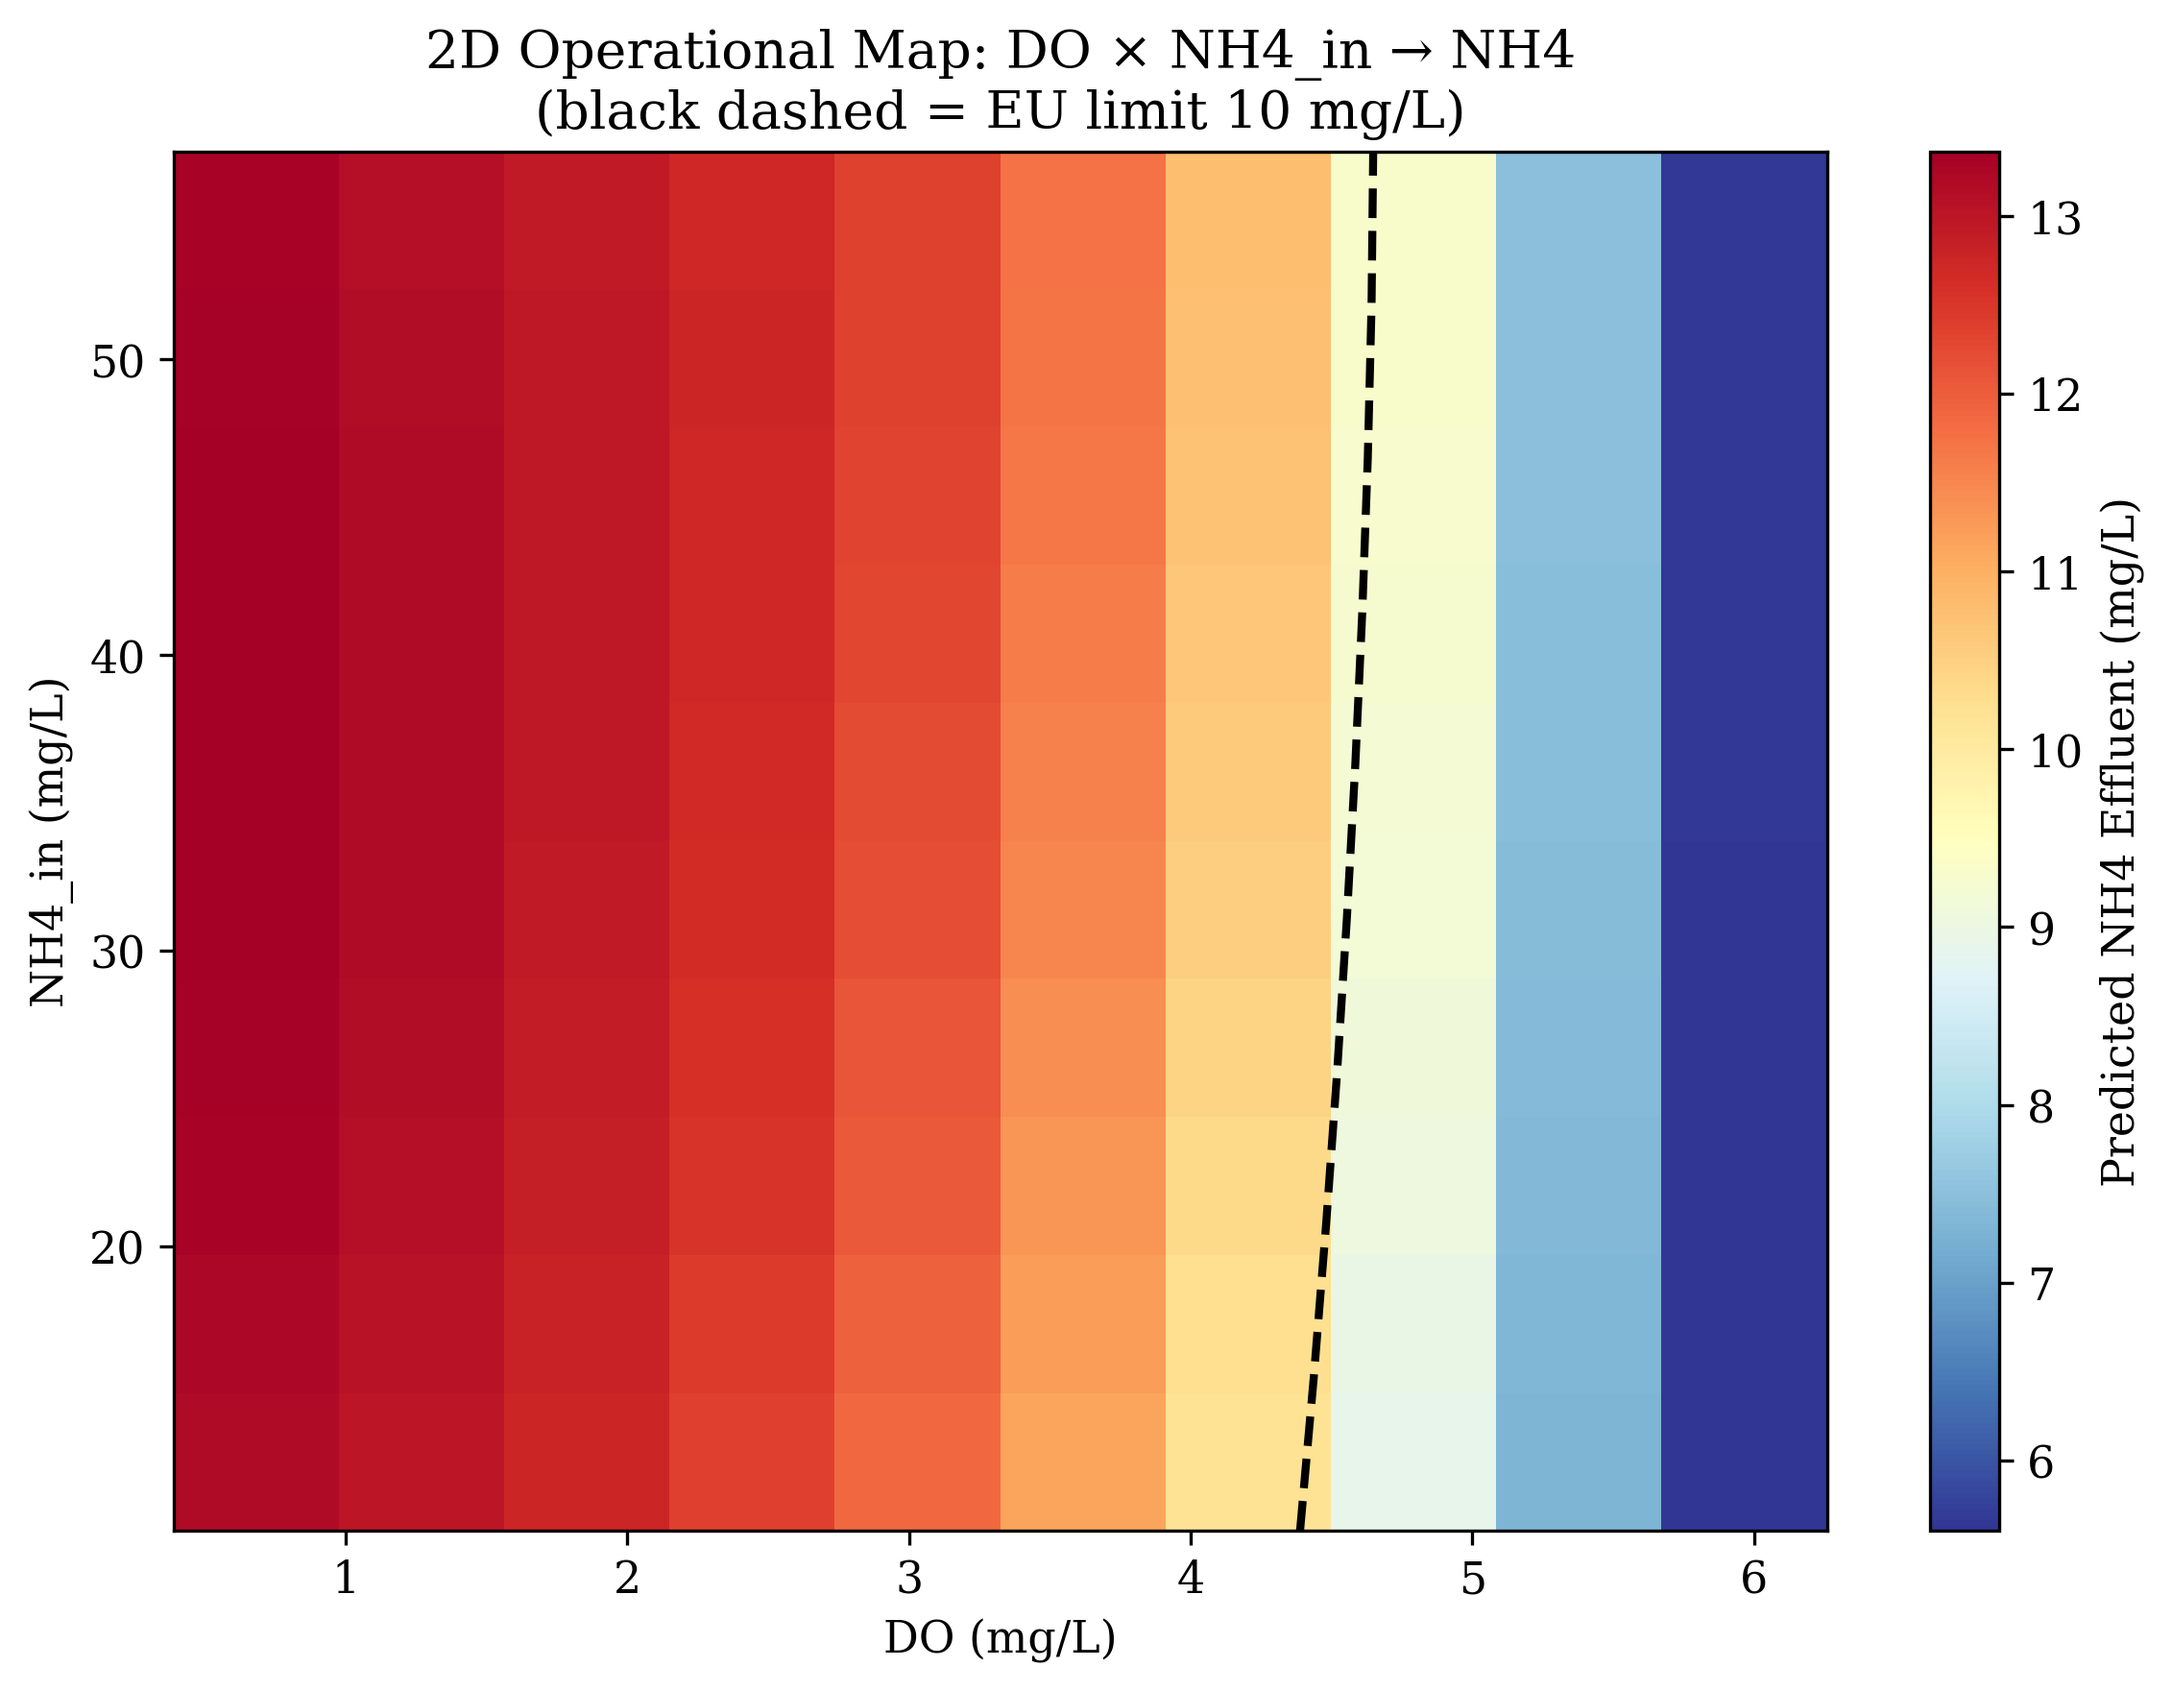
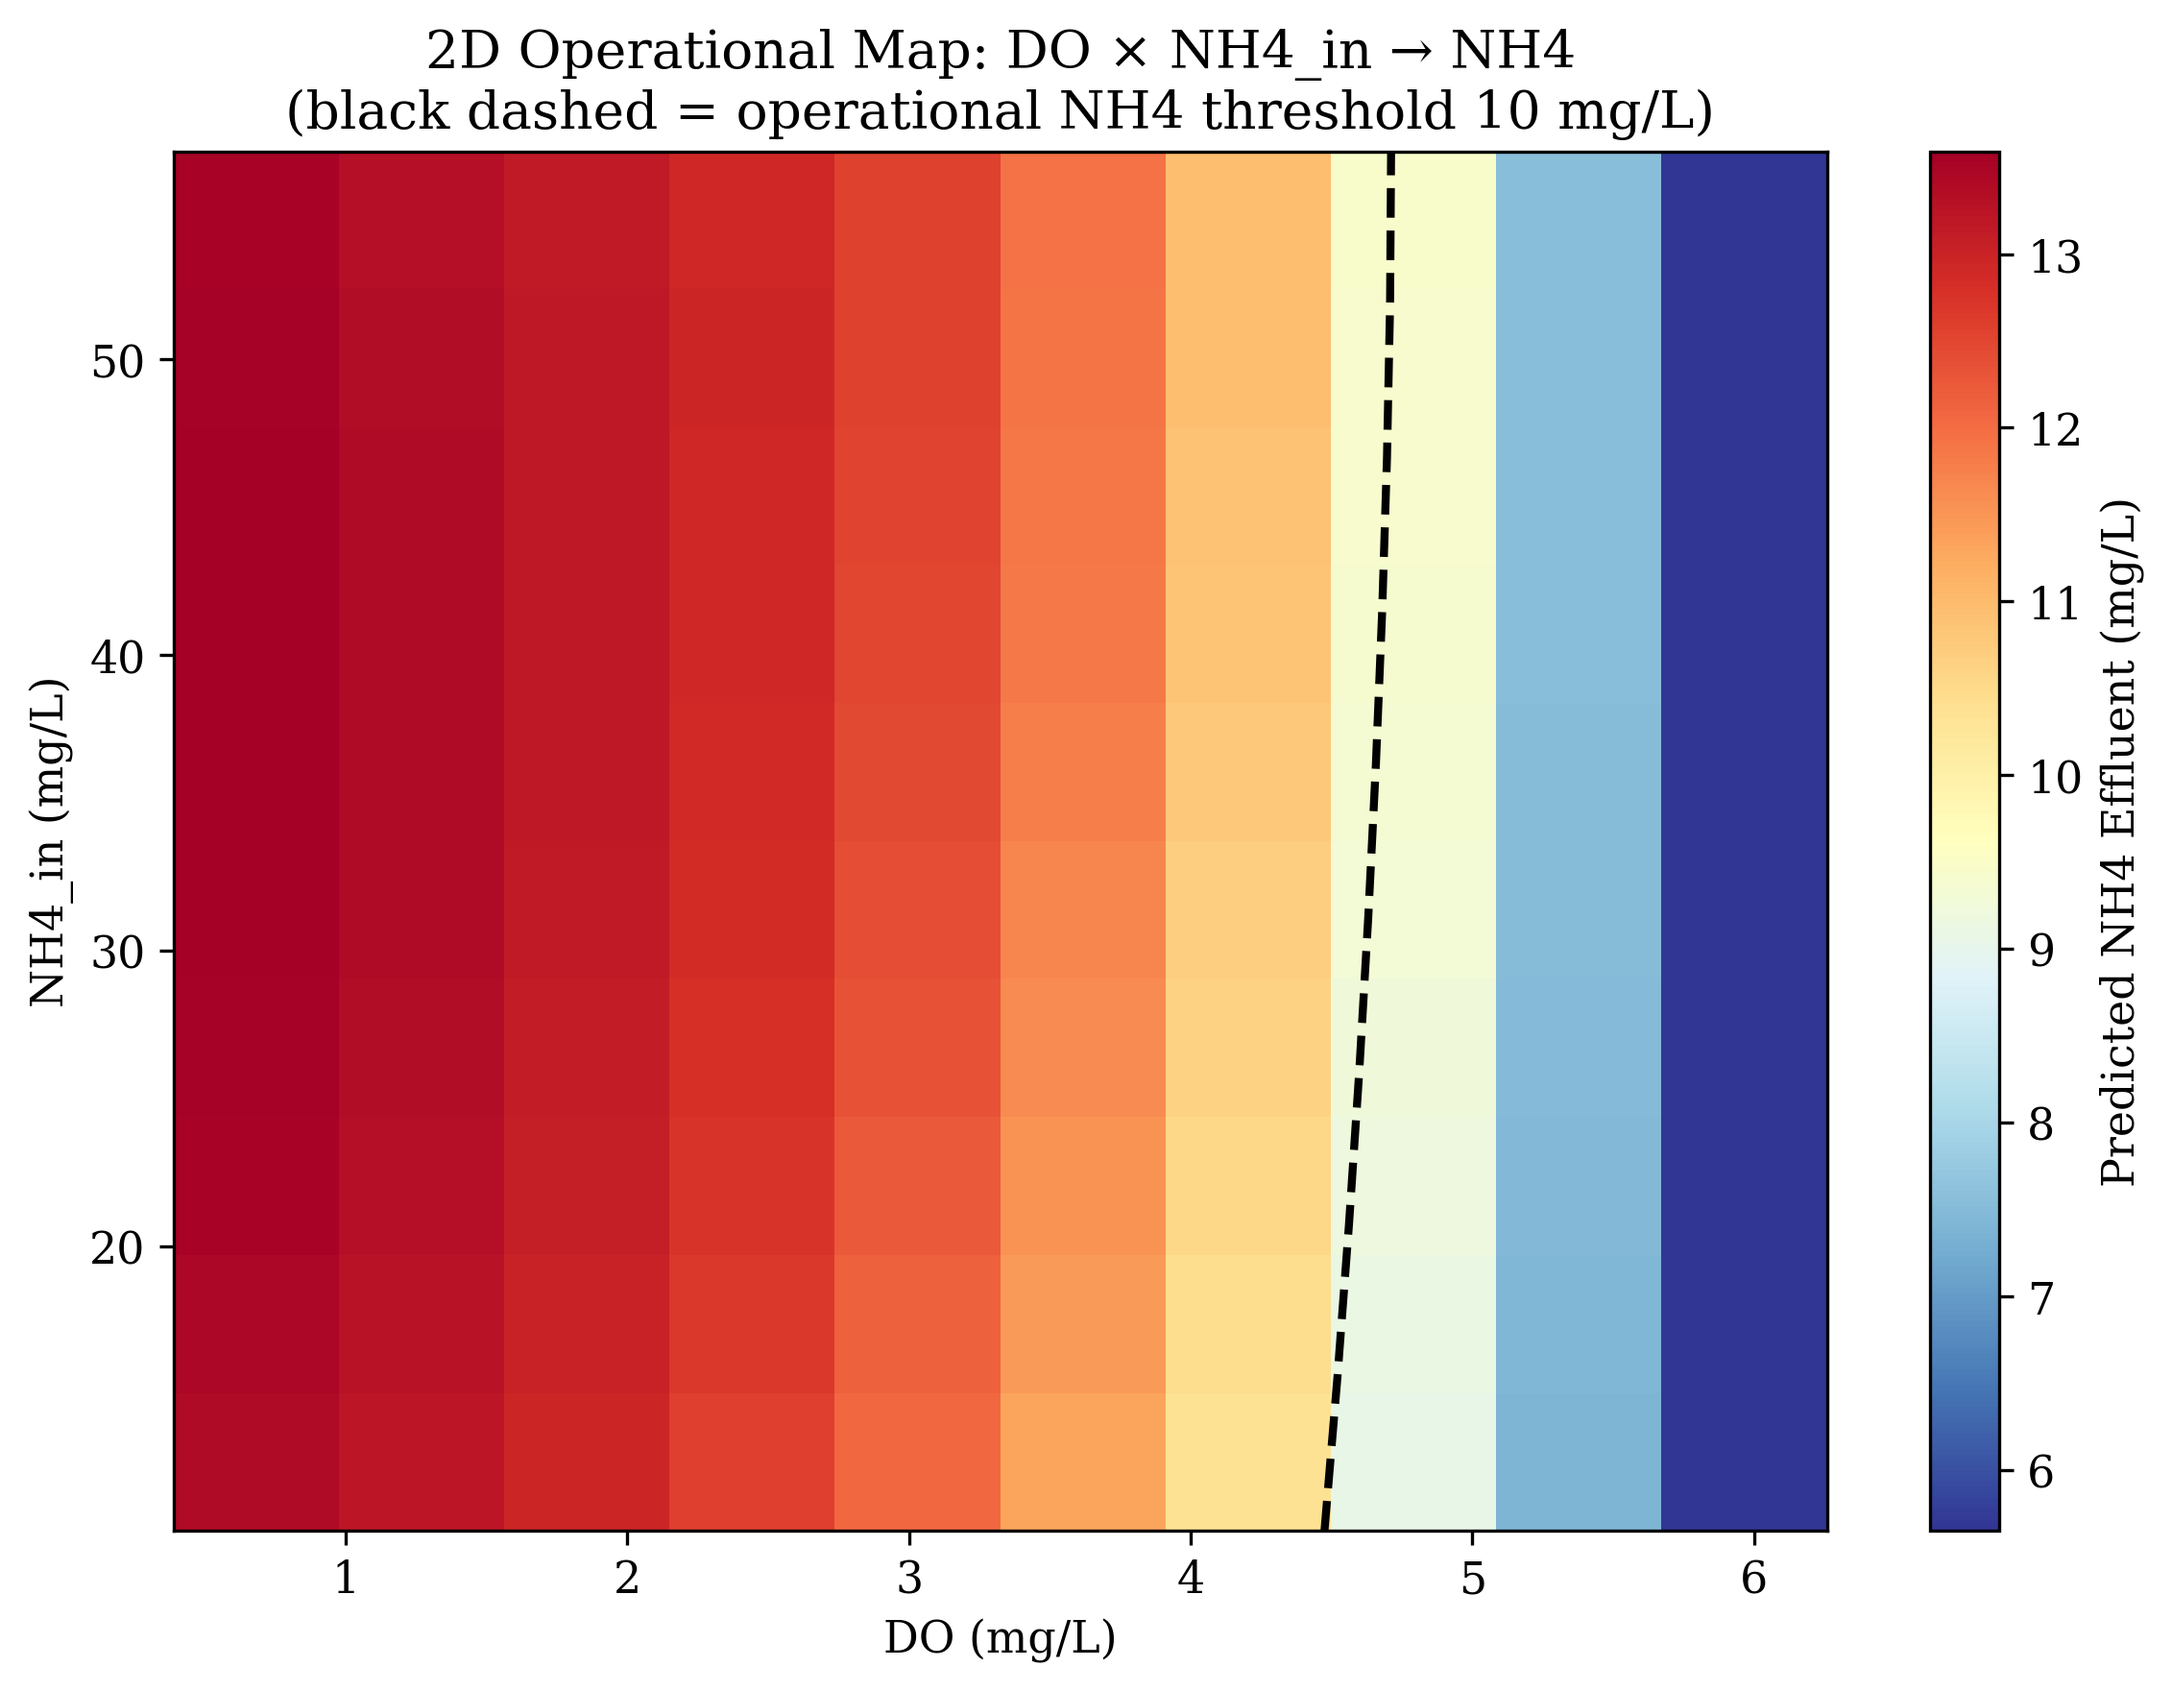
fix: regenerate domain-of-utility figure and correct interpretability labels
- generate_domain_of_utility_fig.py: drop a raw LaTeX cross-reference from
  the figure title and soften an over-strong "consistently lower" claim;
  regenerate fig_domain_of_utility from the current low-data and noise CSVs
  so the panel-C ratios match the result tables.
- shap_analysis.py: relabel the 10 mg/L line as an operational NH4 threshold
  rather than an EU limit (a nitrification performance threshold, not the EU
  total-N directive limit); regenerate the 2D ALE operational map.

diff --git a/shap_analysis.py b/shap_analysis.py
@@ -118,7 +118,7 @@ def run_pdp(model, test_loader, scaler):
     ax.fill_between(do_real, means - stds, means + stds, alpha=0.25, color='#E63946', label='±1 SD')
     ax.axvline(0.5, color='gray',      ls='--', lw=1.0, label='DO=0.5 (Nitrification Threshold)')
     ax.axvline(2.0, color='steelblue', ls='--', lw=1.0, label='DO=2.0 (Typical Setpoint)')
-    ax.axhline(10,  color='orange',    ls=':',  lw=1.2, label='EU Limit (10 mg/L)')
+    ax.axhline(10,  color='orange',    ls=':',  lw=1.2, label='Operational NH4 threshold (10 mg/L)')
     ax.set_xlabel('Dissolved Oxygen — DO (mg/L)')
     ax.set_ylabel('Predicted NH4 Effluent (mg-N/L)')
     ax.set_title('Partial Dependence Plot: DO → NH4 Effluent')
@@ -237,7 +237,7 @@ def run_ale_2d(model, test_loader, scaler, feat_idx_a=3, feat_idx_b=1,
     cbar.set_label(f'Predicted {output_name} Effluent (mg/L)')
     ax.set_xlabel(f'{feat_name_a} (mg/L)')
     ax.set_ylabel(f'{feat_name_b} (mg/L)')
-    ax.set_title(f'2D Operational Map: {feat_name_a} × {feat_name_b} → {output_name}\n(black dashed = EU limit 10 mg/L)')
+    ax.set_title(f'2D Operational Map: {feat_name_a} × {feat_name_b} → {output_name}\n(black dashed = operational NH4 threshold 10 mg/L)')
     plt.tight_layout()
     fname = os.path.join(OUTPUT_DIR, f"ale_2d_{feat_name_a.lower()}_{feat_name_b.lower()}_{output_name.lower()}.png")
     fig.savefig(fname, dpi=300, bbox_inches='tight')

diff --git a/generate_domain_of_utility_fig.py b/generate_domain_of_utility_fig.py
@@ -149,8 +149,8 @@ def main():
                      loc='upper right', fontsize=9)
 
     fig.suptitle("Domain of Utility for PG-LSTM in ASM2d Wastewater Modeling\n"
-                  "Equivalent predictive accuracy (TOST $p<0.05$, see Tab.~\\ref{tab:tost}) "
-                  "with consistently lower ASM2d ODE residual across all tested regimes",
+                  "Equivalent predictive accuracy (TOST $p<0.05$) with a "
+                  "regime-dependent ASM2d ODE-residual advantage",
                   fontsize=12, y=1.02)
     plt.tight_layout()
     plt.rcParams['pdf.fonttype'] = 42  # embed fonts (Water Research §10.3)
@@ -164,7 +164,8 @@ def main():
     # ── Özet tablo (manuscript için) ─────────────────────────────────────────
     print("\n=== PG-LSTM Advantage Factor Summary ===")
     for label, adv in zip(cond_labels, advantages):
-        print(f"  {label.replace(chr(10), ' '):<14}  {adv:.2f}×")
+        safe = label.replace(chr(10), ' ').replace('σ', 'sigma')
+        print(f"  {safe:<16}  {adv:.2f}x")
 
 
 if __name__ == "__main__":
